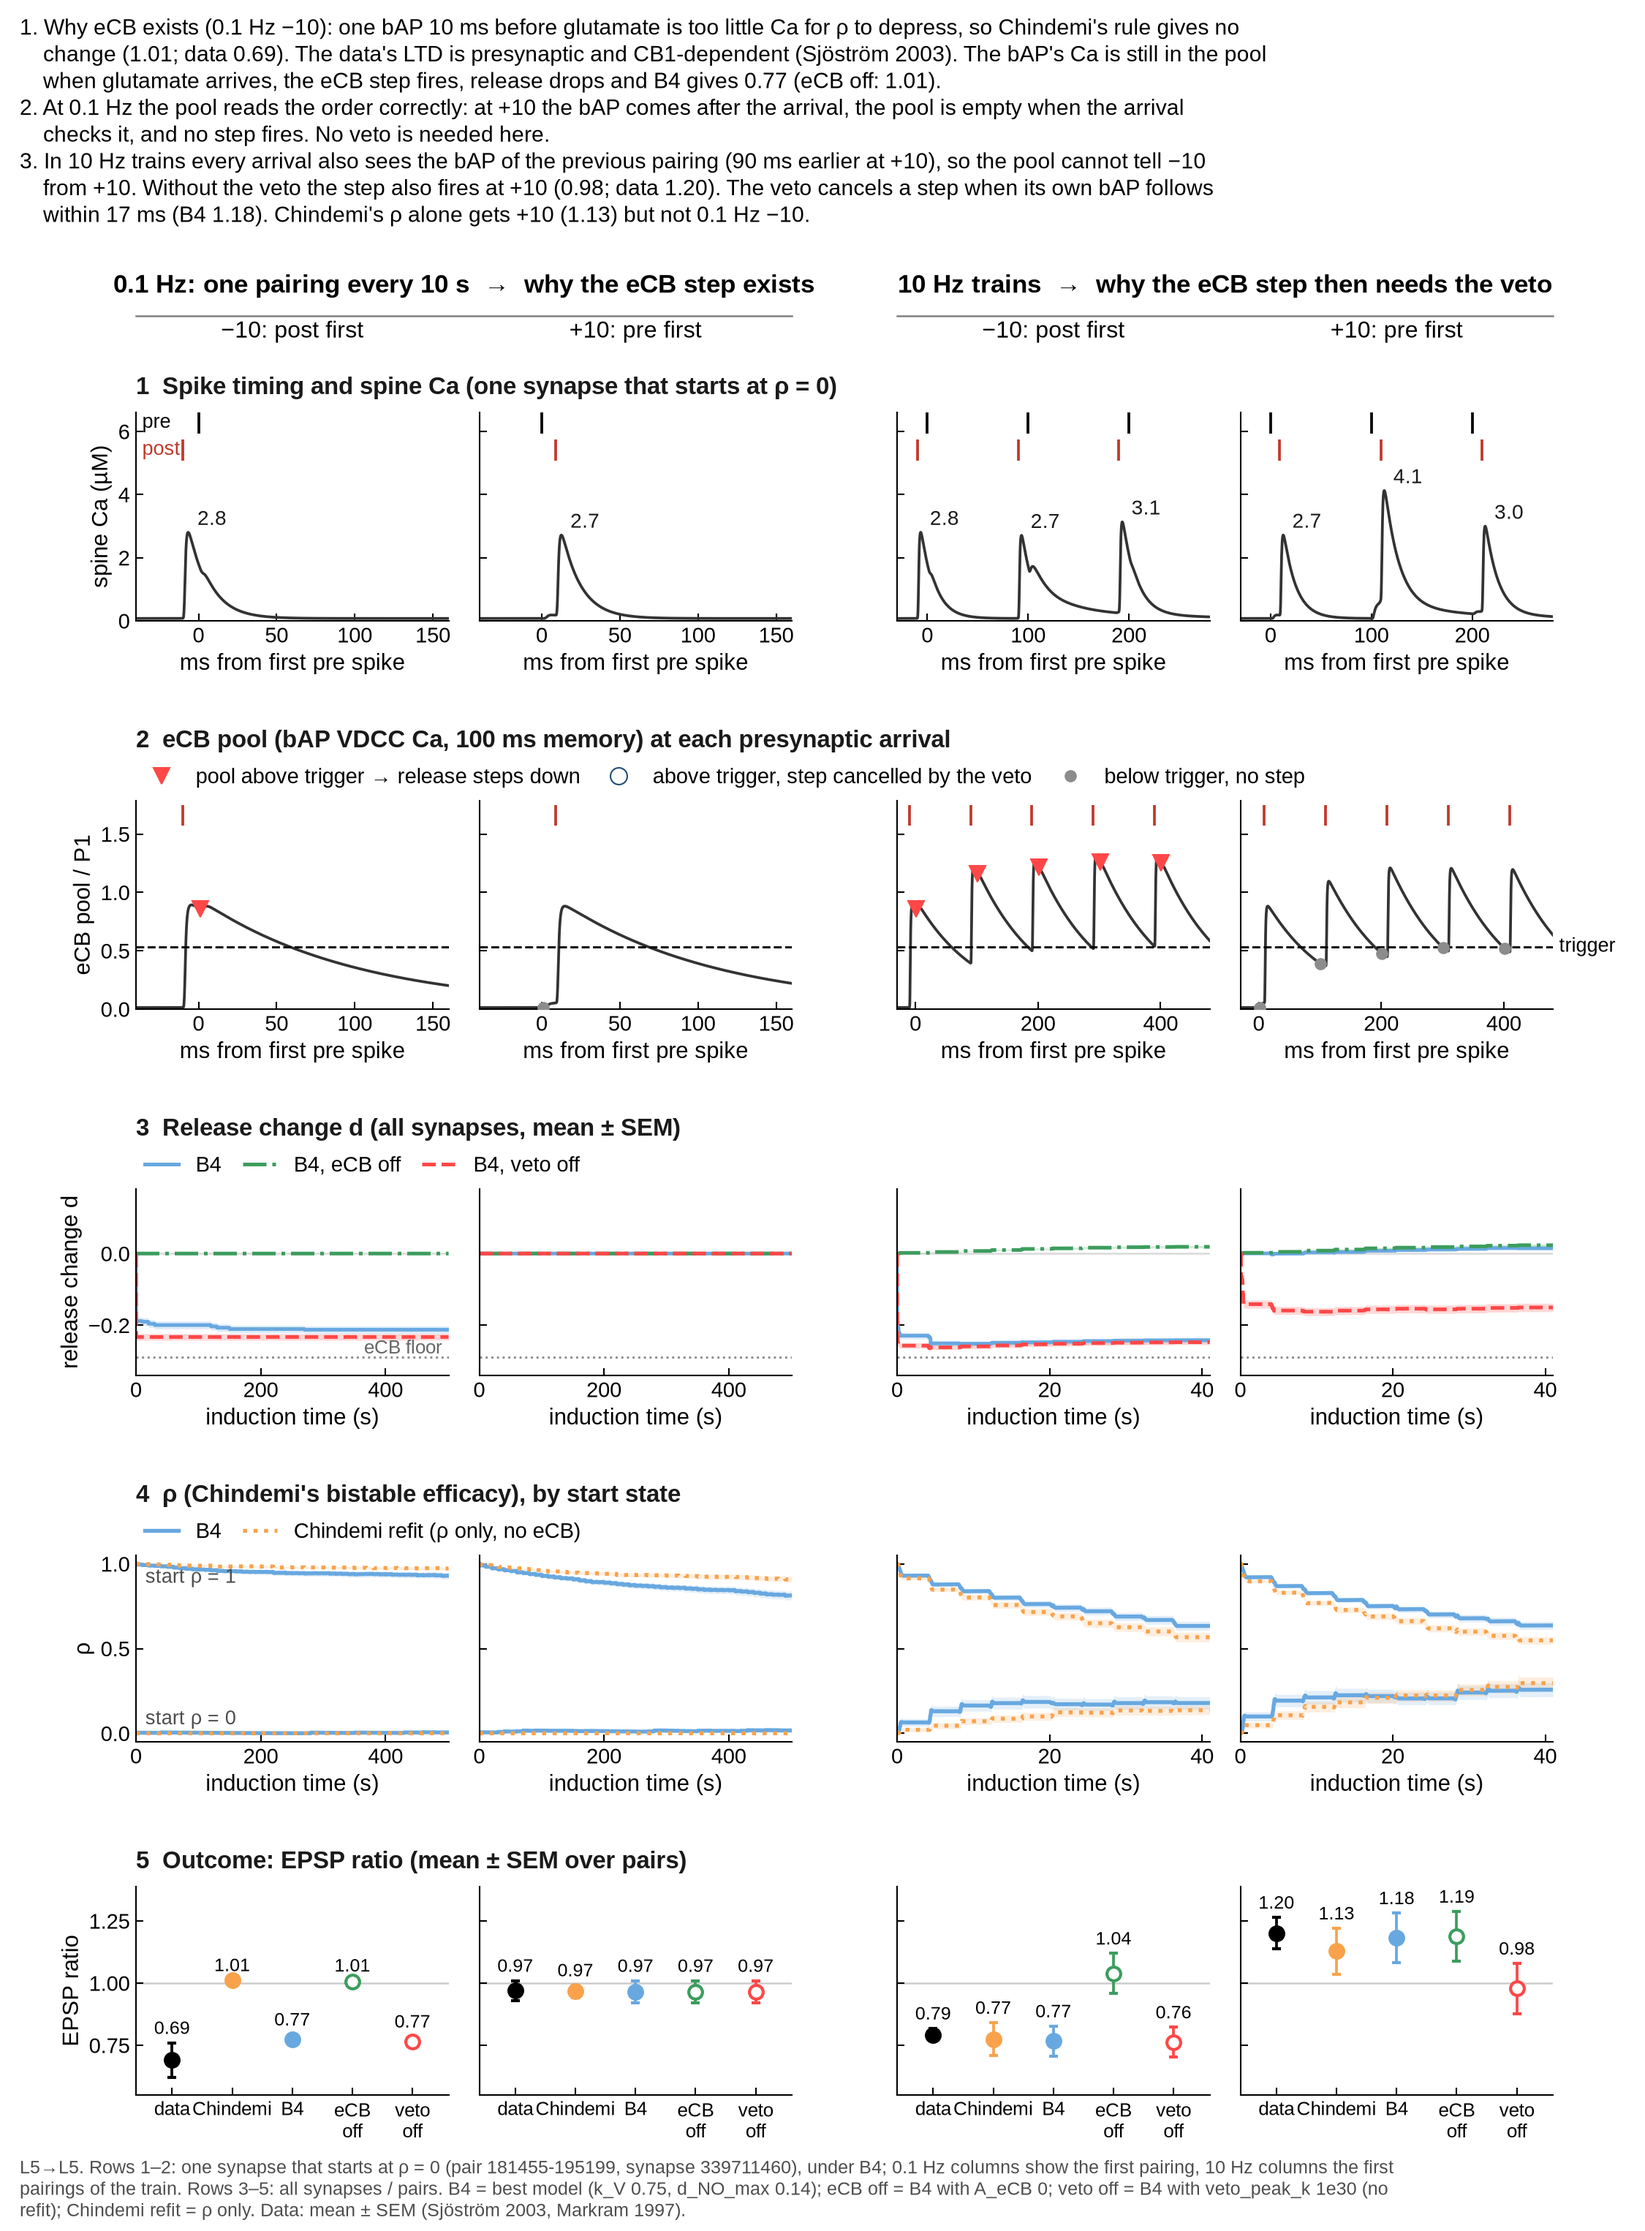
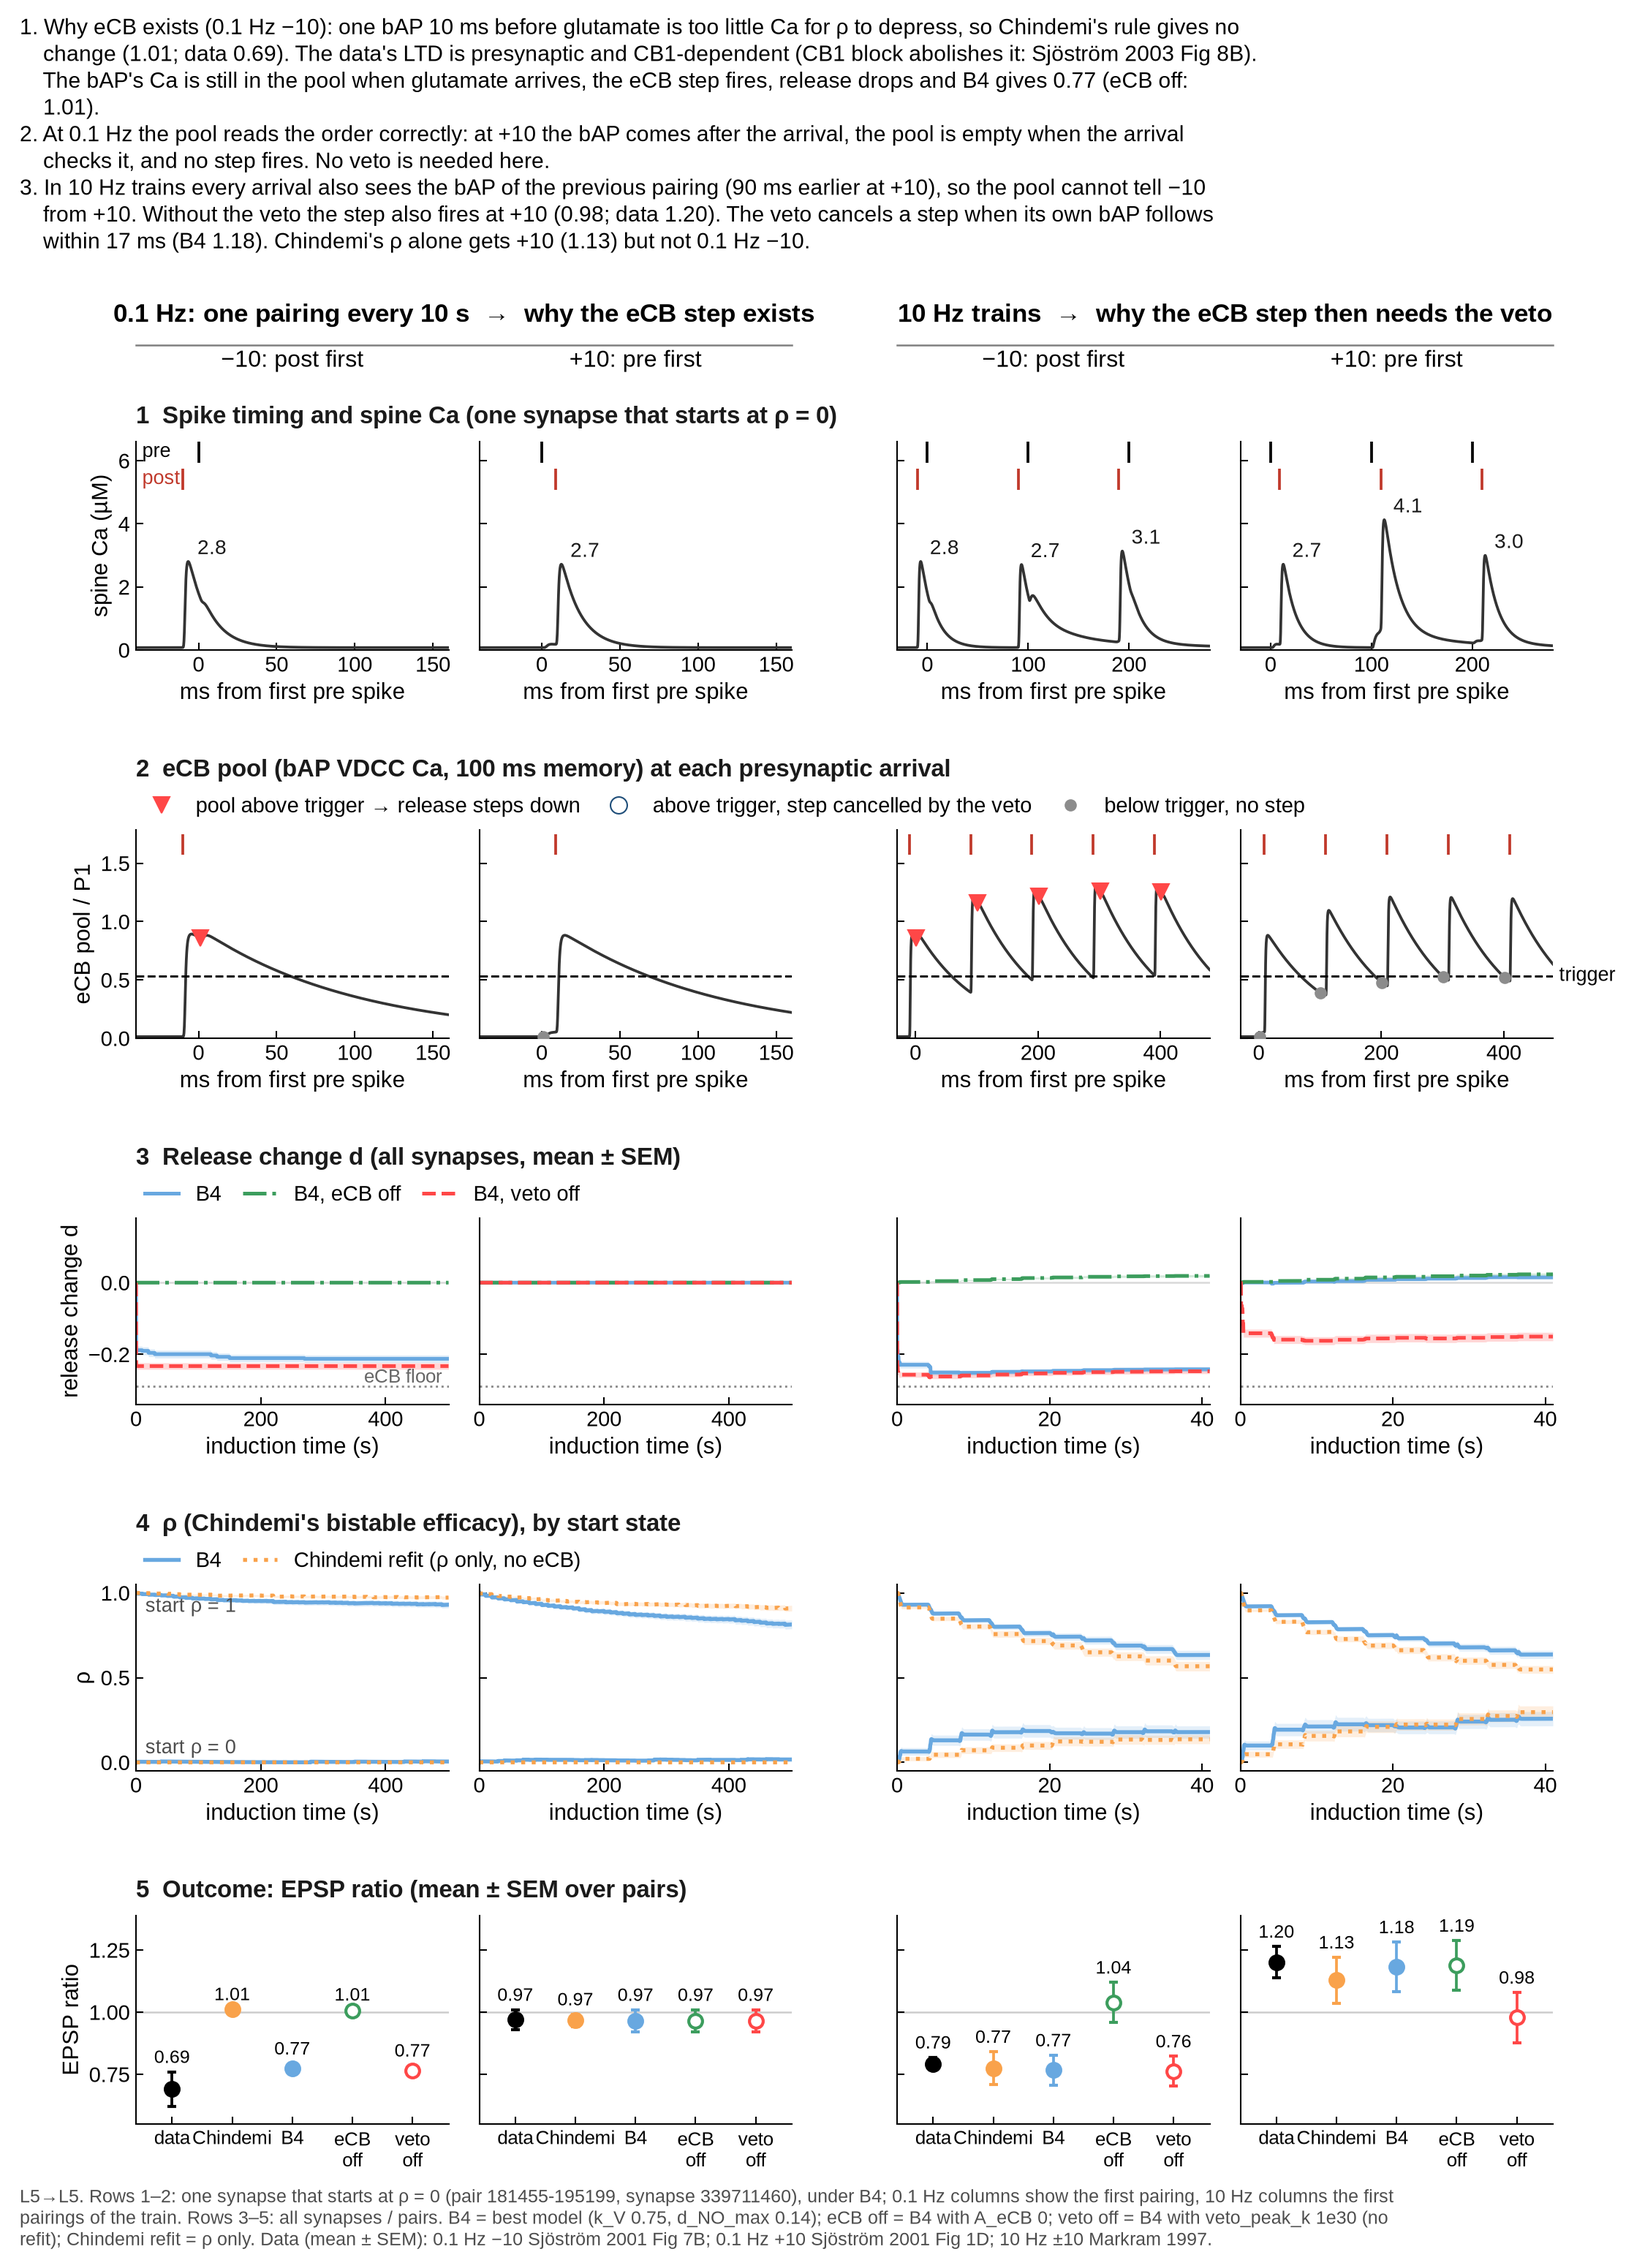
figV4: cite data sources exactly (Sjostrom 2001 Fig 7B/1D, Sjostrom 2003 Fig 8B, Markram 1997)

diff --git a/glusynapse_v2/rho_redesign/figs_veto/figV4_plot.py b/glusynapse_v2/rho_redesign/figs_veto/figV4_plot.py
@@ -73,7 +73,7 @@ cp, bp, vp = oc("p10", "CHR"), oc("p10", "B4"), oc("p10", "KOV")
 CAPTXT = [
     f"1. Why eCB exists (0.1 Hz −10): one bAP 10 ms before glutamate is too little Ca for ρ to depress, so Chindemi's "
     f"rule gives no change ({c0['mean']:.2f}; data {c0.data_mean:.2f}). The data's LTD is presynaptic and CB1-dependent "
-    f"(Sjöström 2003). The bAP's Ca is still in the pool when glutamate arrives, the eCB step fires, release drops and "
+    f"(CB1 block abolishes it: Sjöström 2003 Fig 8B). The bAP's Ca is still in the pool when glutamate arrives, the eCB step fires, release drops and "
     f"B4 gives {b0['mean']:.2f} (eCB off: {e0['mean']:.2f}).",
     "2. At 0.1 Hz the pool reads the order correctly: at +10 the bAP comes after the arrival, the pool is empty when "
     "the arrival checks it, and no step fires. No veto is needed here.",
@@ -249,7 +249,7 @@ fig.text(0.012, 0.04 / H, textwrap.fill(
     f"L5→L5. Rows 1–2: one synapse that starts at ρ = 0 (pair {ch['pair']}, synapse {ch['syn']}), under B4; 0.1 Hz "
     f"columns show the first pairing, 10 Hz columns the first pairings of the train. Rows 3–5: all synapses / pairs. "
     f"B4 = best model (k_V 0.75, d_NO_max 0.14); eCB off = B4 with A_eCB 0; veto off = B4 with veto_peak_k 1e30 (no "
-    f"refit); Chindemi refit = ρ only. Data: mean ± SEM (Sjöström 2003, Markram 1997).", 165),
+    f"refit); Chindemi refit = ρ only. Data (mean ± SEM): 0.1 Hz −10 Sjöström 2001 Fig 7B; 0.1 Hz +10 Sjöström 2001 Fig 1D; 10 Hz ±10 Markram 1997.", 165),
     ha="left", va="bottom", fontsize=6.0, color="0.3", linespacing=1.25)
 out = os.path.join(HERE, "figV4_why_ecb.png")
 fig.savefig(out, dpi=300)
